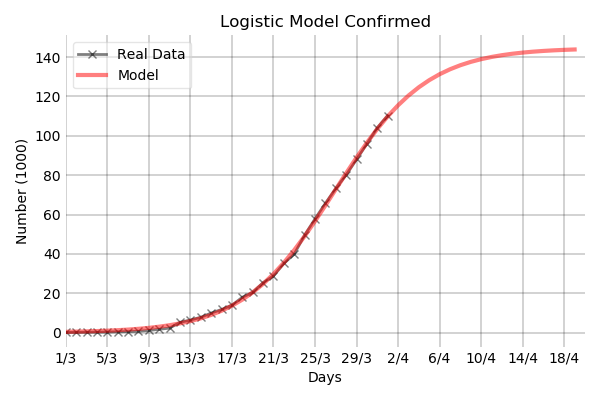
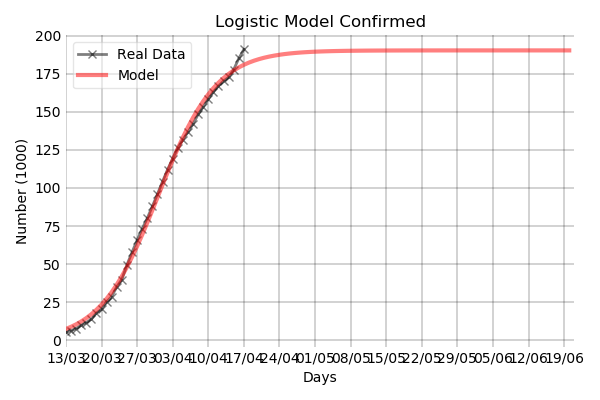
Added t0 parameter to fix origin in SIR model

Changed region(s): [[0.06, 0.03, 0.99, 0.96], [0.15, 0.09, 0.18, 0.12]]

diff --git a/covid19.py b/covid19.py
@@ -104,7 +104,7 @@ def compare(data, countries, filename='figures\\compare.png', threshold=None, sc
 
 
 def fit(values, model, lbounds, gbounds, guess=None, route='figures\\', title='Model',
-        tmin=0, tmax=50, scale=1000, days_range=4):
+        tmin=0, tmax=50, scale=1000, days_range=7):
 
     """Fit the real data to a model. Lower and greater bounds must be provided
        in order to fit a problem with many free parameters. An initial guess
@@ -126,7 +126,7 @@ def fit(values, model, lbounds, gbounds, guess=None, route='figures\\', title='M
     route = route + title.lower().replace(' ', '_') + '.png'
 
     days = np.arange(0, len(values))  # Calculates a time array, one day for each point in data
-    sol = optimize.curve_fit(model, days, values, p0=guess, bounds=(lbounds, gbounds), maxfev=1E8)[0]  # Fit the curve
+    sol = optimize.curve_fit(model, days, values, p0=guess, bounds=(lbounds, gbounds))[0]  # Fit the curve
 
     days = np.arange(0, len(values))  # Defines the days array for the real data plot
     t = np.arange(tmin, tmax)  # Defines the time array for the model plot
@@ -148,8 +148,8 @@ def fit(values, model, lbounds, gbounds, guess=None, route='figures\\', title='M
     ax.set_xlim([tmin, tmax])
     initial_date = values.index.values[0]
     days_ticks = range(tmax)
-    days_labels = [str(pd.to_datetime(initial_date + np.timedelta64(i, 'D')).day) + '/' +
-                   str(pd.to_datetime(initial_date + np.timedelta64(i, 'D')).month) for i in days_ticks]
+    days_labels = [str(pd.to_datetime(initial_date + np.timedelta64(i, 'D')).day).zfill(2) + '/' +
+                   str(pd.to_datetime(initial_date + np.timedelta64(i, 'D')).month).zfill(2) for i in days_ticks]
 
     ax.set_xticks(days_ticks[::days_range])
     ax.set_xticklabels(days_labels[::days_range])

diff --git a/tests.py b/tests.py
@@ -5,21 +5,22 @@ import pandas as pd
 
 # Read Data from CSSEGISandData's GitHub Repository
 data = covid19.get_data('https://raw.githubusercontent.com/datasets/covid-19/master/data/countries-aggregated.csv')
-today_data = [110238, 10003, 26743]
+today_data = [172541, 18056, 67504]
 
 # Append the last minute data manually to the -csv data
-confirmed, deaths, active = covid19.clean_data(data, 'Spain', threshold=[50, 10, 50], lastminute=today_data)
+confirmed, deaths, active = covid19.clean_data(data, 'Spain', threshold=[2500, 5000, 2500], lastminute=None)
+print(deaths.reset_index())
 
 # # Compare between different countries
 countries_to_compare = ['Spain', 'Italy', 'France', 'Germany', 'US']
 covid19.compare(data, countries_to_compare, 'figures\\compare.png', threshold=[1000, 250, 1000])
 
 # SIR Model
-sol = covid19.fit(active,  sir_model, [0, 0, 0, 1E5], [np.inf, np.inf, np.inf, 1E8], [1, 3, 1/50, 5E7],
-                  title='SIR Model', tmax=50)
+sol = covid19.fit(active,  sir_model, [0, 0, 1, 0, -np.inf], [np.inf, np.inf, np.inf, np.inf, np.inf],
+                  [1, 1.5, 5E5, 1E8, 0], title='SIR Model', tmax=200, days_range=30)
 
 # Logistic Model
 covid19.fit(confirmed,  logistic_model, [0, 0, 0], [np.inf, np.inf, np.inf], [1, 1, 1],
-            title='Logistic Model Confirmed', tmax=50)
-covid19.fit(deaths,  logistic_model, [0, 0, 0], [np.inf, np.inf, np.inf], [1, 1, 1],
-            title='Logistic Model Deaths', tmax=50, scale=1)
+            title='Logistic Model Confirmed', tmax=100)
+covid19.fit(deaths,  logistic_model, [-np.inf, -np.inf, -np.inf], [np.inf, np.inf, np.inf], [1, 1, 1E5],
+            title='Logistic Model Deaths', tmax=100, scale=1)

diff --git a/models.py b/models.py
@@ -2,7 +2,7 @@ import numpy as np
 from scipy import interpolate, integrate
 
 
-def sir_model(x, initial_infected, beta, gamma, population, initial_recovered=0, tmax=365, n=1000):
+def sir_model(x, initial_infected, beta, gamma, population, t0, initial_recovered=0, tmax=365, n=1000):
 
     """"Uses SIR Model (https://en.wikipedia.org/wiki/Compartmental_models_in_epidemiology#The_SIR_model)
         to return the value of the Infected Curve at time x, given the SIR Model parameters.
@@ -13,12 +13,14 @@ def sir_model(x, initial_infected, beta, gamma, population, initial_recovered=0,
         - beta : (float) Transmission rate
         - gamma : (float) Typical time between contacts
         - population : (float) Susceptible population
+        - t0 : (float) Initial time to fix origin
         - initial_recovered : (float) Initial recovered individuals (Default 0)
         - tmax : (float) Time for integrating the differential equations, in days (Default 365)
         - n : (int) Number of time points for integrating the differential equations (Default 1000)"""
 
+    gamma = 1 / gamma
     initial_susceptible = population - initial_infected - initial_recovered  # Everyone who is susceptible to infection
-    t = np.linspace(0, tmax, n)  # Time vector for integrating
+    t = np.linspace(t0, tmax, n)  # Time vector for integrating
 
     def derivatives(y, _):
 
